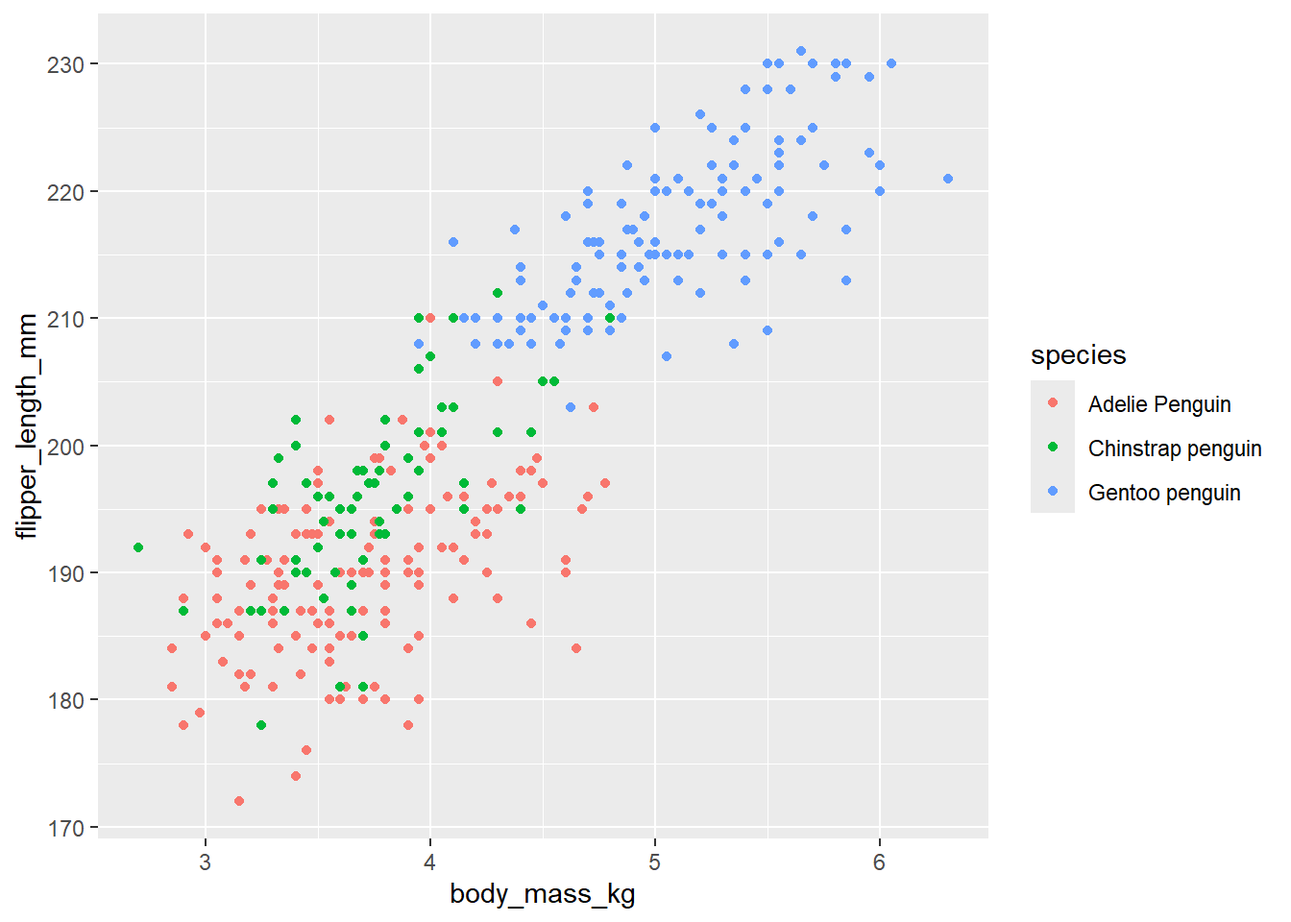
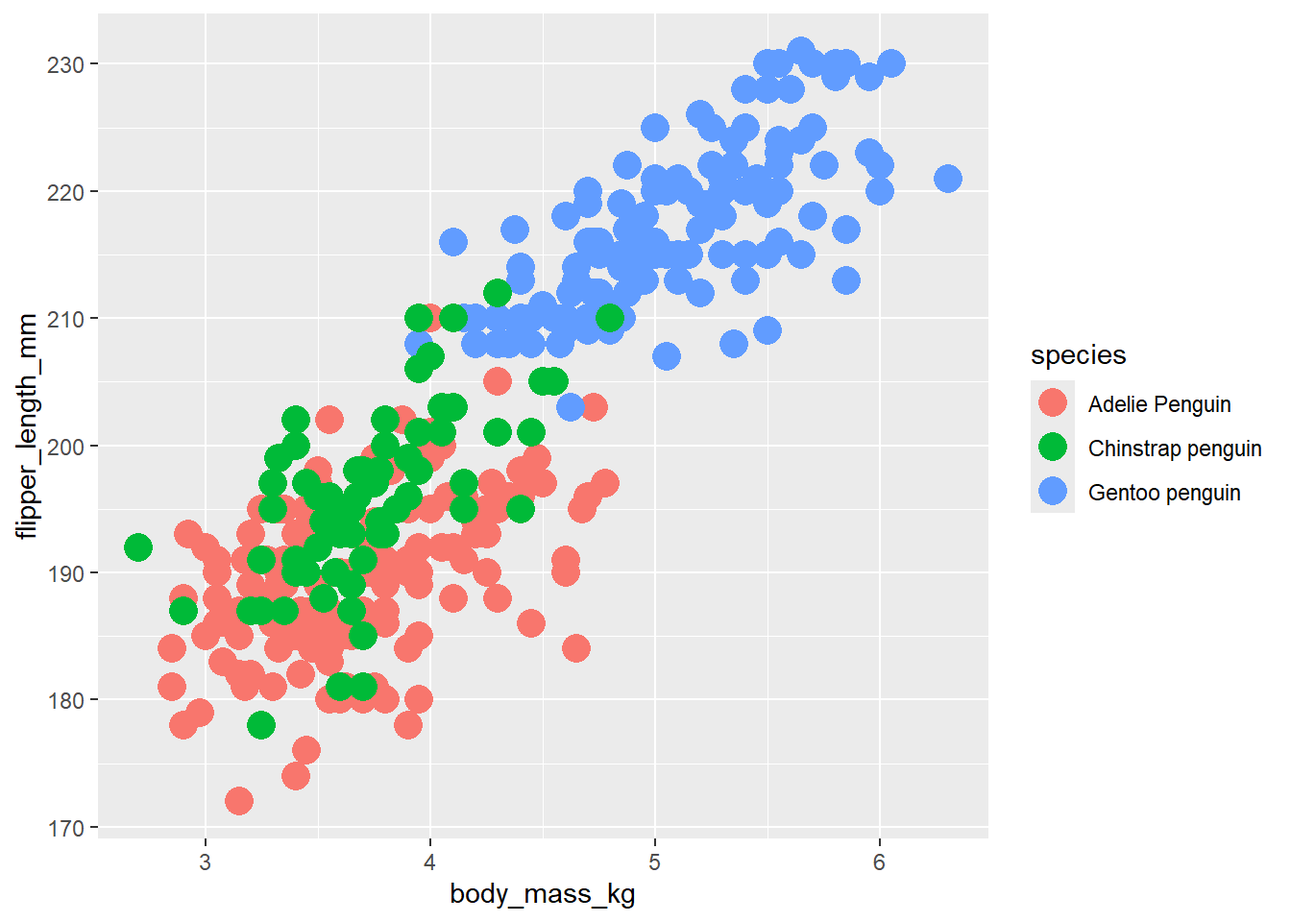
Updates to visualization section

diff --git a/scripts/BYOD1_workshop.html b/scripts/BYOD1_workshop.html
@@ -135,13 +135,16 @@ pre > code.sourceCode > span > a:first-child::before { text-decoration: underlin
   <li><a href="#data-visualization" id="toc-data-visualization" class="nav-link" data-scroll-target="#data-visualization"><span class="header-section-number">6</span> Data visualization</a>
   <ul class="collapse">
   <li><a href="#key-data-visualization-principes" id="toc-key-data-visualization-principes" class="nav-link" data-scroll-target="#key-data-visualization-principes"><span class="header-section-number">6.1</span> Key Data Visualization principes</a></li>
-  <li><a href="#scatterplots" id="toc-scatterplots" class="nav-link" data-scroll-target="#scatterplots"><span class="header-section-number">6.2</span> Scatterplots</a>
+  <li><a href="#section" id="toc-section" class="nav-link" data-scroll-target="#section"><span class="header-section-number">6.2</span> </a></li>
+  <li><a href="#histograms-and-bar" id="toc-histograms-and-bar" class="nav-link" data-scroll-target="#histograms-and-bar"><span class="header-section-number">6.3</span> Histograms and Bar</a></li>
+  <li><a href="#scatterplots" id="toc-scatterplots" class="nav-link" data-scroll-target="#scatterplots"><span class="header-section-number">6.4</span> Scatterplots</a>
   <ul class="collapse">
-  <li><a href="#blank-canvas" id="toc-blank-canvas" class="nav-link" data-scroll-target="#blank-canvas"><span class="header-section-number">6.2.1</span> Blank canvas</a></li>
-  <li><a href="#now-we-add-aesthetics-with-aes" id="toc-now-we-add-aesthetics-with-aes" class="nav-link" data-scroll-target="#now-we-add-aesthetics-with-aes"><span class="header-section-number">6.2.2</span> Now we add aesthetics with <code>aes()</code></a></li>
-  <li><a href="#add-geoms" id="toc-add-geoms" class="nav-link" data-scroll-target="#add-geoms"><span class="header-section-number">6.2.3</span> Add geom’s</a></li>
+  <li><a href="#blank-canvas" id="toc-blank-canvas" class="nav-link" data-scroll-target="#blank-canvas"><span class="header-section-number">6.4.1</span> Blank canvas</a></li>
+  <li><a href="#now-we-add-aesthetics-with-aes" id="toc-now-we-add-aesthetics-with-aes" class="nav-link" data-scroll-target="#now-we-add-aesthetics-with-aes"><span class="header-section-number">6.4.2</span> Now we add aesthetics with <code>aes()</code></a></li>
+  <li><a href="#add-geoms" id="toc-add-geoms" class="nav-link" data-scroll-target="#add-geoms"><span class="header-section-number">6.4.3</span> Add geom’s</a></li>
+  <li><a href="#visualizing-different-groups-with-facet_wrap" id="toc-visualizing-different-groups-with-facet_wrap" class="nav-link" data-scroll-target="#visualizing-different-groups-with-facet_wrap"><span class="header-section-number">6.4.4</span> Visualizing different groups with <code>facet_wrap</code></a></li>
   </ul></li>
-  <li><a href="#exporting-datasets-in-nice-format-for-publication" id="toc-exporting-datasets-in-nice-format-for-publication" class="nav-link" data-scroll-target="#exporting-datasets-in-nice-format-for-publication"><span class="header-section-number">6.3</span> Exporting datasets in nice format for publication</a></li>
+  <li><a href="#exporting-datasets-in-nice-format-for-publication" id="toc-exporting-datasets-in-nice-format-for-publication" class="nav-link" data-scroll-target="#exporting-datasets-in-nice-format-for-publication"><span class="header-section-number">6.5</span> Exporting datasets in nice format for publication</a></li>
   </ul></li>
   <li><a href="#simple-statistics-if-time-allows" id="toc-simple-statistics-if-time-allows" class="nav-link" data-scroll-target="#simple-statistics-if-time-allows"><span class="header-section-number">7</span> Simple statistics (if time allows)</a></li>
   <li><a href="#conclusion" id="toc-conclusion" class="nav-link" data-scroll-target="#conclusion"><span class="header-section-number">8</span> Conclusion</a></li>
@@ -292,9 +295,9 @@ The goal of this workshop is to provide the tools and hands-on experience necess
 <section id="lets-load-a-few-datasets-in-different-formats" class="level2" data-number="2.2">
 <h2 data-number="2.2" class="anchored" data-anchor-id="lets-load-a-few-datasets-in-different-formats"><span class="header-section-number">2.2</span> Let’s load a few datasets in different formats</h2>
 <div class="cell">
-<div class="sourceCode cell-code" id="cb2"><pre class="sourceCode r code-with-copy"><code class="sourceCode r"><span id="cb2-1"><a href="#cb2-1" aria-hidden="true" tabindex="-1"></a>mydat.csv<span class="ot">&lt;-</span><span class="fu">read_csv</span>(<span class="st">"data/.......csv"</span>) <span class="co"># load a .csv file into your R environment</span></span>
+<div class="sourceCode cell-code" id="cb2"><pre class="sourceCode r code-with-copy"><code class="sourceCode r"><span id="cb2-1"><a href="#cb2-1" aria-hidden="true" tabindex="-1"></a>mydat_csv <span class="ot">&lt;-</span> <span class="fu">read_csv</span>(<span class="st">"data/penguin_data_final.csv"</span>) <span class="co"># load a .csv file into your R environment</span></span>
 <span id="cb2-2"><a href="#cb2-2" aria-hidden="true" tabindex="-1"></a></span>
-<span id="cb2-3"><a href="#cb2-3" aria-hidden="true" tabindex="-1"></a>mydat.xls<span class="ot">&lt;-</span><span class="fu">read_excel</span>(<span class="st">"data/.....xlsx"</span>) <span class="co"># load a .xlsx file into your R environment</span></span></code><button title="Copy to Clipboard" class="code-copy-button"><i class="bi"></i></button></pre></div>
+<span id="cb2-3"><a href="#cb2-3" aria-hidden="true" tabindex="-1"></a>mydat_xls <span class="ot">&lt;-</span> <span class="fu">read_excel</span>(<span class="st">"data/penguin_data_final.xlsx"</span>) <span class="co"># load a .xlsx file into your R environment</span></span></code><button title="Copy to Clipboard" class="code-copy-button"><i class="bi"></i></button></pre></div>
 </div>
 <p>You can look in the environment and make sure that the files were loaded properly! We will also demonstrate ways to explore your data in the next section.</p>
 </section>
@@ -516,10 +519,11 @@ Using R and R scripts ensures that the original dataset is kept, and that all da
 <span id="cb7-3"><a href="#cb7-3" aria-hidden="true" tabindex="-1"></a></span>
 <span id="cb7-4"><a href="#cb7-4" aria-hidden="true" tabindex="-1"></a><span class="do">## Create an indicator variable for the "adult not sampled" comments so that we can easilly remove them from future analyses if needed.</span></span>
 <span id="cb7-5"><a href="#cb7-5" aria-hidden="true" tabindex="-1"></a></span>
-<span id="cb7-6"><a href="#cb7-6" aria-hidden="true" tabindex="-1"></a>cleandat <span class="ot">&lt;-</span>cleandat <span class="sc">%&gt;%</span> <span class="fu">mutate</span>(<span class="at">usable_adult_data=</span><span class="fu">case_when</span>(comments<span class="sc">==</span><span class="st">"Adult not sampled."</span><span class="sc">~</span><span class="st">"no"</span>,comments<span class="sc">==</span><span class="st">"Adult not sampled. Nest never observed with full clutch."</span><span class="sc">~</span><span class="st">"no"</span>,<span class="cn">TRUE</span><span class="sc">~</span><span class="st">"yes"</span>))</span>
-<span id="cb7-7"><a href="#cb7-7" aria-hidden="true" tabindex="-1"></a></span>
-<span id="cb7-8"><a href="#cb7-8" aria-hidden="true" tabindex="-1"></a><span class="co"># We can now filter-out that comment column as it will no longer be necessary for our work. </span></span>
-<span id="cb7-9"><a href="#cb7-9" aria-hidden="true" tabindex="-1"></a>cleandat <span class="ot">&lt;-</span> cleandat <span class="sc">%&gt;%</span> <span class="fu">select</span>(<span class="sc">!</span>comments)</span></code><button title="Copy to Clipboard" class="code-copy-button"><i class="bi"></i></button></pre></div>
+<span id="cb7-6"><a href="#cb7-6" aria-hidden="true" tabindex="-1"></a></span>
+<span id="cb7-7"><a href="#cb7-7" aria-hidden="true" tabindex="-1"></a>cleandat <span class="ot">&lt;-</span>cleandat <span class="sc">%&gt;%</span> <span class="fu">mutate</span>(<span class="at">usable_adult_data=</span><span class="fu">case_when</span>(comments<span class="sc">==</span><span class="st">"Adult not sampled."</span><span class="sc">~</span><span class="st">"no"</span>,comments<span class="sc">==</span><span class="st">"Adult not sampled. Nest never observed with full clutch."</span><span class="sc">~</span><span class="st">"no"</span>,<span class="cn">TRUE</span><span class="sc">~</span><span class="st">"yes"</span>))</span>
+<span id="cb7-8"><a href="#cb7-8" aria-hidden="true" tabindex="-1"></a></span>
+<span id="cb7-9"><a href="#cb7-9" aria-hidden="true" tabindex="-1"></a><span class="co"># We can now filter-out that comment column as it will no longer be necessary for our work. </span></span>
+<span id="cb7-10"><a href="#cb7-10" aria-hidden="true" tabindex="-1"></a>cleandat <span class="ot">&lt;-</span> cleandat <span class="sc">%&gt;%</span> <span class="fu">select</span>(<span class="sc">!</span>comments)</span></code><button title="Copy to Clipboard" class="code-copy-button"><i class="bi"></i></button></pre></div>
 </div>
 </section>
 <section id="creating-new-variables" class="level3" data-number="4.5.4">
@@ -564,10 +568,7 @@ Using R and R scripts ensures that the original dataset is kept, and that all da
 <span id="cb9-6"><a href="#cb9-6" aria-hidden="true" tabindex="-1"></a>full_time_sequence <span class="ot">&lt;-</span> <span class="fu">seq</span>(min_start_time, max_end_time, <span class="dv">10</span><span class="sc">*</span><span class="dv">60</span>)</span>
 <span id="cb9-7"><a href="#cb9-7" aria-hidden="true" tabindex="-1"></a></span>
 <span id="cb9-8"><a href="#cb9-8" aria-hidden="true" tabindex="-1"></a><span class="co"># For each record, sample a random number from the full time sequence created above</span></span>
-<span id="cb9-9"><a href="#cb9-9" aria-hidden="true" tabindex="-1"></a>cleandat <span class="ot">&lt;-</span> cleandat <span class="sc">%&gt;%</span> <span class="fu">mutate</span>(<span class="at">time_sec=</span><span class="fu">sample</span>(full_time_sequence,<span class="fu">n</span>(),<span class="at">replace=</span><span class="cn">TRUE</span>)) </span>
-<span id="cb9-10"><a href="#cb9-10" aria-hidden="true" tabindex="-1"></a></span>
-<span id="cb9-11"><a href="#cb9-11" aria-hidden="true" tabindex="-1"></a><span class="co"># Let's look at the times generate</span></span>
-<span id="cb9-12"><a href="#cb9-12" aria-hidden="true" tabindex="-1"></a><span class="fu">hist</span>(cleandat<span class="sc">$</span>time_sec,<span class="at">breaks=</span><span class="dv">20</span>)</span></code><button title="Copy to Clipboard" class="code-copy-button"><i class="bi"></i></button></pre></div>
+<span id="cb9-9"><a href="#cb9-9" aria-hidden="true" tabindex="-1"></a>cleandat <span class="ot">&lt;-</span> cleandat <span class="sc">%&gt;%</span> <span class="fu">mutate</span>(<span class="at">time_sec=</span><span class="fu">sample</span>(full_time_sequence,<span class="fu">n</span>(),<span class="at">replace=</span><span class="cn">TRUE</span>)) </span></code><button title="Copy to Clipboard" class="code-copy-button"><i class="bi"></i></button></pre></div>
 </div>
 </section>
 <section id="formatting-dates-and-times-1" class="level3" data-number="4.6.3">
@@ -622,14 +623,12 @@ We will summarize the penguin data to illustrate what can be done with these two
 <span id="cb12-5"><a href="#cb12-5" aria-hidden="true" tabindex="-1"></a>cleandat <span class="ot">&lt;-</span> cleandat <span class="sc">%&gt;%</span> <span class="fu">filter</span>(usable_adult_data<span class="sc">!=</span><span class="st">"no"</span>) <span class="co"># using the != syntax means "not equal to", so basically here we are saying that we are keeping everything that is not equal to "no", i.e., we are keeping the "yes"!</span></span>
 <span id="cb12-6"><a href="#cb12-6" aria-hidden="true" tabindex="-1"></a></span>
 <span id="cb12-7"><a href="#cb12-7" aria-hidden="true" tabindex="-1"></a><span class="co"># cleandat contains columns which for simplicity we may want to remove</span></span>
-<span id="cb12-8"><a href="#cb12-8" aria-hidden="true" tabindex="-1"></a>cleandat <span class="ot">&lt;-</span> cleandat <span class="sc">%&gt;%</span> <span class="fu">select</span>(<span class="sc">!</span>usable_adult_data <span class="sc">&amp;</span> <span class="sc">!</span>time_sec <span class="sc">&amp;</span> <span class="sc">!</span>date <span class="sc">&amp;</span> <span class="sc">!</span>date.time <span class="sc">&amp;</span> <span class="sc">!</span>date_time_utc)</span>
+<span id="cb12-8"><a href="#cb12-8" aria-hidden="true" tabindex="-1"></a>cleandat <span class="ot">&lt;-</span> cleandat <span class="sc">%&gt;%</span> <span class="fu">select</span>(<span class="sc">!</span>usable_adult_data <span class="sc">&amp;</span> <span class="sc">!</span>time_sec <span class="sc">&amp;</span> <span class="sc">!</span>date <span class="sc">&amp;</span> <span class="sc">!</span>date_time_utc)</span>
 <span id="cb12-9"><a href="#cb12-9" aria-hidden="true" tabindex="-1"></a></span>
 <span id="cb12-10"><a href="#cb12-10" aria-hidden="true" tabindex="-1"></a><span class="fu">glimpse</span>(cleandat) <span class="co"># Much better!!!</span></span>
 <span id="cb12-11"><a href="#cb12-11" aria-hidden="true" tabindex="-1"></a></span>
 <span id="cb12-12"><a href="#cb12-12" aria-hidden="true" tabindex="-1"></a><span class="co"># Let's save our cleaned dataset</span></span>
-<span id="cb12-13"><a href="#cb12-13" aria-hidden="true" tabindex="-1"></a>out.path <span class="ot">&lt;-</span> <span class="st">"C:/Users/vestloui/OneDrive - State of Minnesota - MN365/Documents/Teaching/BYOD Series/1. Data Summaries and Visualization/data"</span></span>
-<span id="cb12-14"><a href="#cb12-14" aria-hidden="true" tabindex="-1"></a>  </span>
-<span id="cb12-15"><a href="#cb12-15" aria-hidden="true" tabindex="-1"></a><span class="fu">write_csv</span>(cleandat,<span class="fu">paste</span>(out.path,<span class="st">"clean_peanguindat.csv"</span>,<span class="at">sep=</span><span class="st">""</span>))</span></code><button title="Copy to Clipboard" class="code-copy-button"><i class="bi"></i></button></pre></div>
+<span id="cb12-13"><a href="#cb12-13" aria-hidden="true" tabindex="-1"></a><span class="fu">write_csv</span>(cleandat,<span class="st">"data/clean_peanguindat.csv"</span>)</span></code><button title="Copy to Clipboard" class="code-copy-button"><i class="bi"></i></button></pre></div>
 </div>
 <p>Let’s compare flipper length and body mass across species. The <code>group_by</code> function allows summarizing information for one or multiple nested groups (e.g., species alone, or species within islands, etc.). The <code>summarize</code> function will allow creating summaries such as mean, standard deviation, sample size, for the groups we defined with the <code>group_by</code> function. Note that if there are missing data in a column, the output of a summary will return NA unless it is specified that the NAs need to be ignored from the calculation.</p>
 <section id="summarizing-flipper-lengths" class="level3" data-number="5.1.1">
@@ -759,7 +758,7 @@ Above we created a summary of mean, standard deviation, mininmum, and maximum fl
 </table>
 </div>
 </div>
-<p>Now let’s say that we want to sumarise flipper length by species AND island. Let’s take a few minutes to try creating different summaries based on multiple grouping varibles. Hint: the grouping variables can be added within that <code>group_by()</code> function separated by a <code>comma</code>. You can use the <code>names()</code> or <code>glimpse</code> function to remember the name of the different variables available to use.</p>
+<p>Now let’s say that we want to summarise flipper length by species AND island. Let’s take a few minutes to try creating different summaries based on multiple grouping variables. Hint: the grouping variables can be added within that <code>group_by()</code> function separated by a <code>comma</code>. You can use the <code>names()</code> or <code>glimpse</code> function to remember the name of the different variables available to use.</p>
 </section>
 </section>
 </section>
@@ -771,13 +770,67 @@ Now that we have a clean dataset and have created useful summaries, we can now t
 <section id="key-data-visualization-principes" class="level2" data-number="6.1">
 <h2 data-number="6.1" class="anchored" data-anchor-id="key-data-visualization-principes"><span class="header-section-number">6.1</span> Key Data Visualization principes</h2>
 </section>
-<section id="scatterplots" class="level2" data-number="6.2">
-<h2 data-number="6.2" class="anchored" data-anchor-id="scatterplots"><span class="header-section-number">6.2</span> Scatterplots</h2>
-<p>Let’s create a scatterplot showing the relationship between flipper length and body mass. We will start very simple with blank canvas and will gradually build layers and complexity.</p>
-<section id="blank-canvas" class="level3" data-number="6.2.1">
-<h3 data-number="6.2.1" class="anchored" data-anchor-id="blank-canvas"><span class="header-section-number">6.2.1</span> Blank canvas</h3>
+<section id="section" class="level2" data-number="6.2">
+<h2 data-number="6.2" class="anchored" data-anchor-id="section"><span class="header-section-number">6.2</span> </h2>
 <div class="cell">
-<div class="sourceCode cell-code" id="cb16"><pre class="sourceCode r code-with-copy"><code class="sourceCode r"><span id="cb16-1"><a href="#cb16-1" aria-hidden="true" tabindex="-1"></a><span class="fu">ggplot</span>(cleandat)</span></code><button title="Copy to Clipboard" class="code-copy-button"><i class="bi"></i></button></pre></div>
+<div class="sourceCode cell-code" id="cb16"><pre class="sourceCode r code-with-copy"><code class="sourceCode r"><span id="cb16-1"><a href="#cb16-1" aria-hidden="true" tabindex="-1"></a>aes_options <span class="ot">&lt;-</span> <span class="fu">data.frame</span>(<span class="st">"Aesthetics"</span><span class="ot">=</span><span class="fu">c</span>(<span class="st">"x ="</span>,<span class="st">"y ="</span>,<span class="st">"size ="</span>,<span class="st">"alpha ="</span>, <span class="st">"fill ="</span>, <span class="st">"colour ="</span>,<span class="st">"shape ="</span>),<span class="st">"Description"</span><span class="ot">=</span><span class="fu">c</span>(<span class="st">"Variable to be plotted on the X axis"</span>,<span class="st">"Variable to be plotted on the Y axis"</span>,<span class="st">"Size of the point, column or line"</span>,<span class="st">"Transparency of the object"</span>,<span class="st">"The fill colour of a column area"</span>,<span class="st">"The colour for points and lines, or the outline colour for columns and areas"</span>,<span class="st">"The shape of the point when making a scatter plot"</span>))</span>
+<span id="cb16-2"><a href="#cb16-2" aria-hidden="true" tabindex="-1"></a></span>
+<span id="cb16-3"><a href="#cb16-3" aria-hidden="true" tabindex="-1"></a><span class="fu">kable</span>(aes_options, <span class="at">caption =</span> <span class="st">"Options to be passed into the `aes` statement"</span>) <span class="sc">%&gt;%</span></span>
+<span id="cb16-4"><a href="#cb16-4" aria-hidden="true" tabindex="-1"></a>  <span class="fu">kable_styling</span>(<span class="at">bootstrap_options =</span> <span class="fu">c</span>(<span class="st">"striped"</span>, <span class="st">"hover"</span>))</span></code><button title="Copy to Clipboard" class="code-copy-button"><i class="bi"></i></button></pre></div>
+<div class="cell-output-display">
+<table class="table table-striped table-hover caption-top table-sm small" data-quarto-postprocess="true">
+<caption>Options to be passed into the `aes` statement</caption>
+<thead>
+<tr class="header">
+<th style="text-align: left;" data-quarto-table-cell-role="th">Aesthetics</th>
+<th style="text-align: left;" data-quarto-table-cell-role="th">Description</th>
+</tr>
+</thead>
+<tbody>
+<tr class="odd">
+<td style="text-align: left;">x =</td>
+<td style="text-align: left;">Variable to be plotted on the X axis</td>
+</tr>
+<tr class="even">
+<td style="text-align: left;">y =</td>
+<td style="text-align: left;">Variable to be plotted on the Y axis</td>
+</tr>
+<tr class="odd">
+<td style="text-align: left;">size =</td>
+<td style="text-align: left;">Size of the point, column or line</td>
+</tr>
+<tr class="even">
+<td style="text-align: left;">alpha =</td>
+<td style="text-align: left;">Transparency of the object</td>
+</tr>
+<tr class="odd">
+<td style="text-align: left;">fill =</td>
+<td style="text-align: left;">The fill colour of a column area</td>
+</tr>
+<tr class="even">
+<td style="text-align: left;">colour =</td>
+<td style="text-align: left;">The colour for points and lines, or the outline colour for columns and areas</td>
+</tr>
+<tr class="odd">
+<td style="text-align: left;">shape =</td>
+<td style="text-align: left;">The shape of the point when making a scatter plot</td>
+</tr>
+</tbody>
+</table>
+</div>
+</div>
+</section>
+<section id="histograms-and-bar" class="level2" data-number="6.3">
+<h2 data-number="6.3" class="anchored" data-anchor-id="histograms-and-bar"><span class="header-section-number">6.3</span> Histograms and Bar</h2>
+<p>Histogram are often useful to look at the distribution of the data</p>
+</section>
+<section id="scatterplots" class="level2" data-number="6.4">
+<h2 data-number="6.4" class="anchored" data-anchor-id="scatterplots"><span class="header-section-number">6.4</span> Scatterplots</h2>
+<p>Let’s create a scatterplot showing the relationship between flipper length and body mass. We will start very simple with blank canvas and will gradually build layers and complexity.</p>
+<section id="blank-canvas" class="level3" data-number="6.4.1">
+<h3 data-number="6.4.1" class="anchored" data-anchor-id="blank-canvas"><span class="header-section-number">6.4.1</span> Blank canvas</h3>
+<div class="cell">
+<div class="sourceCode cell-code" id="cb17"><pre class="sourceCode r code-with-copy"><code class="sourceCode r"><span id="cb17-1"><a href="#cb17-1" aria-hidden="true" tabindex="-1"></a><span class="fu">ggplot</span>(cleandat)</span></code><button title="Copy to Clipboard" class="code-copy-button"><i class="bi"></i></button></pre></div>
 <div class="cell-output-display">
 <div>
 <figure class="figure">
@@ -787,11 +840,11 @@ Now that we have a clean dataset and have created useful summaries, we can now t
 </div>
 </div>
 </section>
-<section id="now-we-add-aesthetics-with-aes" class="level3" data-number="6.2.2">
-<h3 data-number="6.2.2" class="anchored" data-anchor-id="now-we-add-aesthetics-with-aes"><span class="header-section-number">6.2.2</span> Now we add aesthetics with <code>aes()</code></h3>
+<section id="now-we-add-aesthetics-with-aes" class="level3" data-number="6.4.2">
+<h3 data-number="6.4.2" class="anchored" data-anchor-id="now-we-add-aesthetics-with-aes"><span class="header-section-number">6.4.2</span> Now we add aesthetics with <code>aes()</code></h3>
 <p>Aesthetics in ggplot2 define graphical parameters such as the variables to plot on the X and Y axes, and</p>
 <div class="cell">
-<div class="sourceCode cell-code" id="cb17"><pre class="sourceCode r code-with-copy"><code class="sourceCode r"><span id="cb17-1"><a href="#cb17-1" aria-hidden="true" tabindex="-1"></a><span class="fu">ggplot</span>(cleandat, <span class="fu">aes</span>(<span class="at">x=</span>body_mass_kg,<span class="at">y=</span>flipper_length_mm))</span></code><button title="Copy to Clipboard" class="code-copy-button"><i class="bi"></i></button></pre></div>
+<div class="sourceCode cell-code" id="cb18"><pre class="sourceCode r code-with-copy"><code class="sourceCode r"><span id="cb18-1"><a href="#cb18-1" aria-hidden="true" tabindex="-1"></a><span class="fu">ggplot</span>(cleandat, <span class="fu">aes</span>(<span class="at">x=</span>body_mass_kg,<span class="at">y=</span>flipper_length_mm))</span></code><button title="Copy to Clipboard" class="code-copy-button"><i class="bi"></i></button></pre></div>
 <div class="cell-output-display">
 <div>
 <figure class="figure">
@@ -801,13 +854,13 @@ Now that we have a clean dataset and have created useful summaries, we can now t
 </div>
 </div>
 </section>
-<section id="add-geoms" class="level3" data-number="6.2.3">
-<h3 data-number="6.2.3" class="anchored" data-anchor-id="add-geoms"><span class="header-section-number">6.2.3</span> Add geom’s</h3>
+<section id="add-geoms" class="level3" data-number="6.4.3">
+<h3 data-number="6.4.3" class="anchored" data-anchor-id="add-geoms"><span class="header-section-number">6.4.3</span> Add geom’s</h3>
 <code>geom</code>’s define the type of plot to be produced (e.g., histogram, bar chart, scatter point, etc.). For a scatter plot, we use <code>geom_point()</code>. Graphs in ggplot2 are built as layers, as if you were drawing a picture and gradually adding complexity to your image. This is done using the plus sign (<code>+</code>) and can be read as “take my plot, and ADD this to it”.
 <p></p>
 <div class="cell">
-<div class="sourceCode cell-code" id="cb18"><pre class="sourceCode r code-with-copy"><code class="sourceCode r"><span id="cb18-1"><a href="#cb18-1" aria-hidden="true" tabindex="-1"></a><span class="fu">ggplot</span>(cleandat, <span class="fu">aes</span>(<span class="at">x=</span>body_mass_kg,<span class="at">y=</span>flipper_length_mm))<span class="sc">+</span></span>
-<span id="cb18-2"><a href="#cb18-2" aria-hidden="true" tabindex="-1"></a>  <span class="fu">geom_point</span>()</span></code><button title="Copy to Clipboard" class="code-copy-button"><i class="bi"></i></button></pre></div>
+<div class="sourceCode cell-code" id="cb19"><pre class="sourceCode r code-with-copy"><code class="sourceCode r"><span id="cb19-1"><a href="#cb19-1" aria-hidden="true" tabindex="-1"></a><span class="fu">ggplot</span>(cleandat, <span class="fu">aes</span>(<span class="at">x=</span>body_mass_kg,<span class="at">y=</span>flipper_length_mm))<span class="sc">+</span></span>
+<span id="cb19-2"><a href="#cb19-2" aria-hidden="true" tabindex="-1"></a>  <span class="fu">geom_point</span>()</span></code><button title="Copy to Clipboard" class="code-copy-button"><i class="bi"></i></button></pre></div>
 <div class="cell-output-display">
 <div>
 <figure class="figure">
@@ -818,8 +871,8 @@ Now that we have a clean dataset and have created useful summaries, we can now t
 </div>
 <p>One of our goals in this study is to compare species. Let’s see how this figure looks if we colour the points for each of the species.</p>
 <div class="cell">
-<div class="sourceCode cell-code" id="cb19"><pre class="sourceCode r code-with-copy"><code class="sourceCode r"><span id="cb19-1"><a href="#cb19-1" aria-hidden="true" tabindex="-1"></a><span class="fu">ggplot</span>(cleandat, <span class="fu">aes</span>(<span class="at">x=</span>body_mass_kg,<span class="at">y=</span>flipper_length_mm,<span class="at">colour=</span>species))<span class="sc">+</span></span>
-<span id="cb19-2"><a href="#cb19-2" aria-hidden="true" tabindex="-1"></a>  <span class="fu">geom_point</span>()</span></code><button title="Copy to Clipboard" class="code-copy-button"><i class="bi"></i></button></pre></div>
+<div class="sourceCode cell-code" id="cb20"><pre class="sourceCode r code-with-copy"><code class="sourceCode r"><span id="cb20-1"><a href="#cb20-1" aria-hidden="true" tabindex="-1"></a><span class="fu">ggplot</span>(cleandat, <span class="fu">aes</span>(<span class="at">x=</span>body_mass_kg,<span class="at">y=</span>flipper_length_mm,<span class="at">colour=</span>species))<span class="sc">+</span></span>
+<span id="cb20-2"><a href="#cb20-2" aria-hidden="true" tabindex="-1"></a>  <span class="fu">geom_point</span>(<span class="at">size=</span><span class="dv">5</span>)</span></code><button title="Copy to Clipboard" class="code-copy-button"><i class="bi"></i></button></pre></div>
 <div class="cell-output-display">
 <div>
 <figure class="figure">
@@ -828,10 +881,25 @@ Now that we have a clean dataset and have created useful summaries, we can now t
 </div>
 </div>
 </div>
+<p>Now we could even add an additional layer by colouring the points by species and adding a shape for each of the island. Let’s try that!</p>
+<div class="cell">
+<div class="sourceCode cell-code" id="cb21"><pre class="sourceCode r code-with-copy"><code class="sourceCode r"><span id="cb21-1"><a href="#cb21-1" aria-hidden="true" tabindex="-1"></a><span class="fu">ggplot</span>(cleandat, <span class="fu">aes</span>(<span class="at">x=</span>body_mass_kg,<span class="at">y=</span>flipper_length_mm,<span class="at">colour=</span>species,<span class="at">shape=</span>island))<span class="sc">+</span></span>
+<span id="cb21-2"><a href="#cb21-2" aria-hidden="true" tabindex="-1"></a>  <span class="fu">geom_point</span>(<span class="at">size=</span><span class="dv">5</span>)</span></code><button title="Copy to Clipboard" class="code-copy-button"><i class="bi"></i></button></pre></div>
+<div class="cell-output-display">
+<div>
+<figure class="figure">
+<p><img src="BYOD1_workshop_files/figure-html/unnamed-chunk-20-1.png" class="img-fluid figure-img" width="672"></p>
+</figure>
+</div>
+</div>
+</div>
+</section>
+<section id="visualizing-different-groups-with-facet_wrap" class="level3" data-number="6.4.4">
+<h3 data-number="6.4.4" class="anchored" data-anchor-id="visualizing-different-groups-with-facet_wrap"><span class="header-section-number">6.4.4</span> Visualizing different groups with <code>facet_wrap</code></h3>
 </section>
 </section>
-<section id="exporting-datasets-in-nice-format-for-publication" class="level2" data-number="6.3">
-<h2 data-number="6.3" class="anchored" data-anchor-id="exporting-datasets-in-nice-format-for-publication"><span class="header-section-number">6.3</span> Exporting datasets in nice format for publication</h2>
+<section id="exporting-datasets-in-nice-format-for-publication" class="level2" data-number="6.5">
+<h2 data-number="6.5" class="anchored" data-anchor-id="exporting-datasets-in-nice-format-for-publication"><span class="header-section-number">6.5</span> Exporting datasets in nice format for publication</h2>
 </section>
 </section>
 <section id="simple-statistics-if-time-allows" class="level1" data-number="7">
